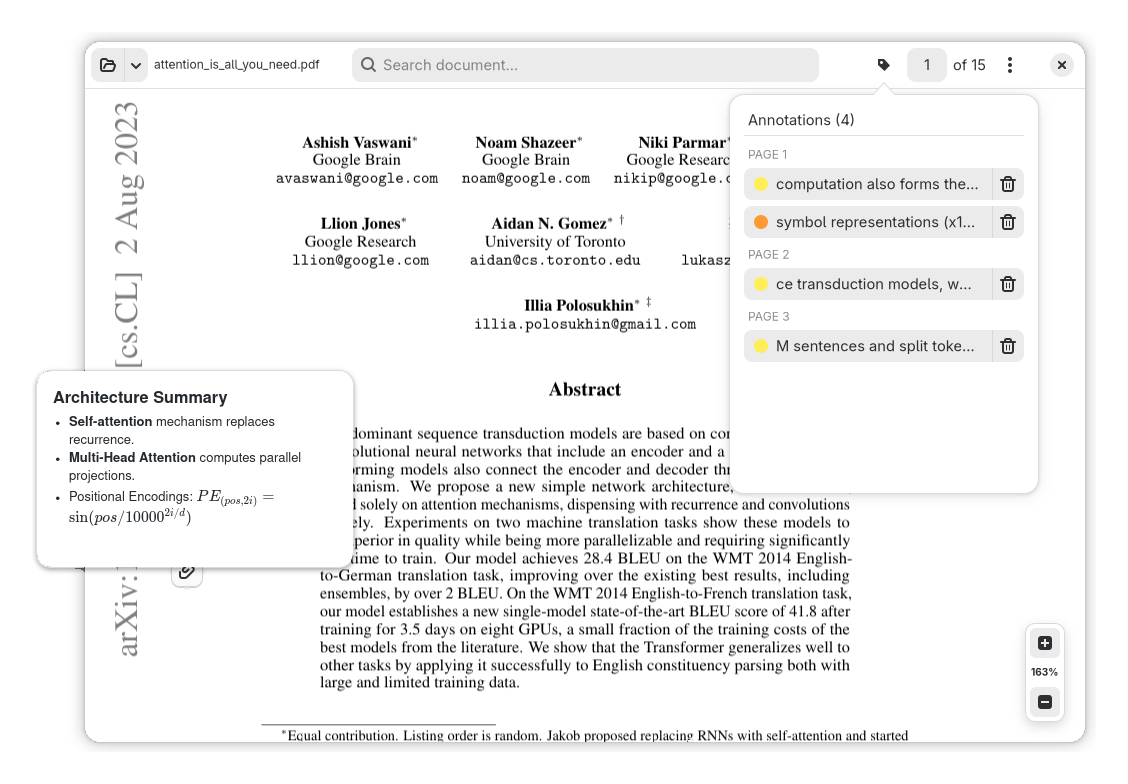
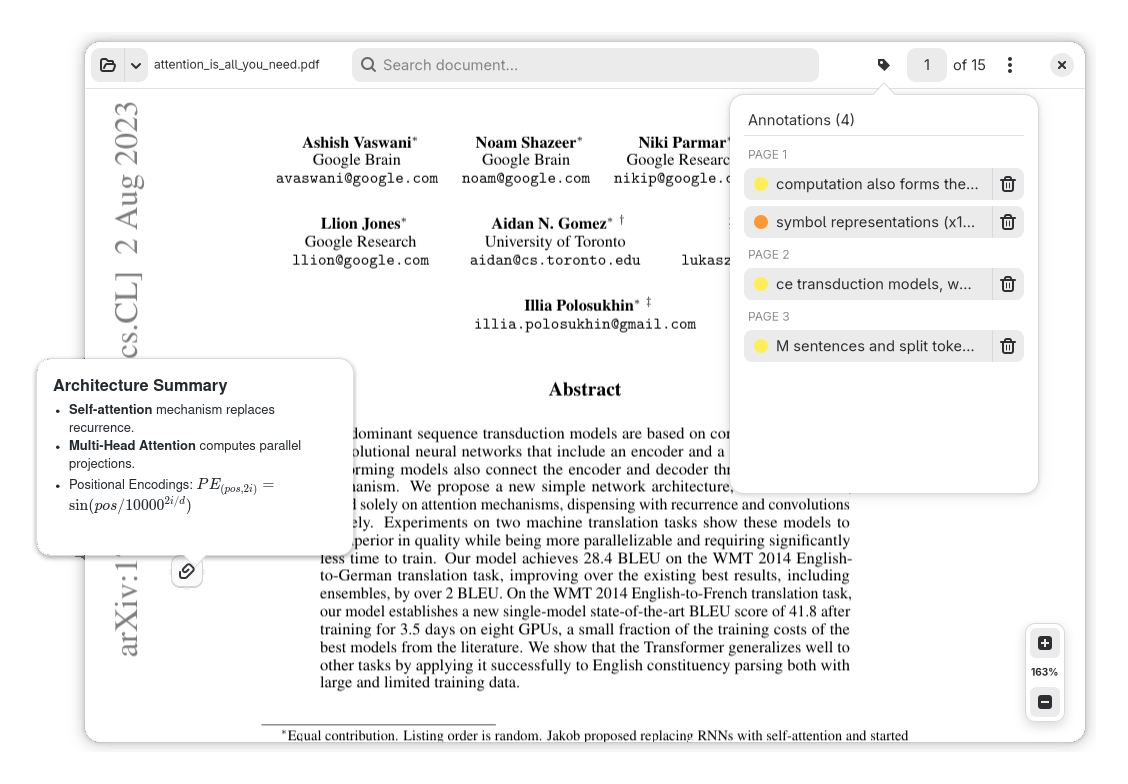
feat(notes): debug-note-rect overlay, fix popover arrow anchor
- Add --debug-note-rect CLI flag: draws a red 2px border on the GL canvas
  at the note preview anchor rect (content coordinates), stored on the
  canvas whenever the preview popover is shown
- Fix _preview_anchor_rect so the rect is centered on the note point like
  the icon (pdf_point_to_page_margin), instead of using the point as the
  top-left; sized 34x34 with a -13 top-left offset
- Enable the preview popover arrow (set_has_arrow(True)) so it points at
  the icon
- Only override the window cursor when PDFATLAS_HIDE_CURSOR == "1"; leave
  cursor handling to the canvas hover logic otherwise
- Regenerate attention_notes_annotations.png

Changed region(s): [[0.031, 0.4592, 0.2793, 0.6735], [0.031, 0.7041, 0.3103, 0.7347]]

diff --git a/pdfatlas/ui/notes.py b/pdfatlas/ui/notes.py
@@ -494,7 +494,7 @@ class NotesLayer:
             # and widget anchoring must be expressed as a pointing rect in the
             # popover parent's (canvas) coordinates.
             self._preview_popover.set_autohide(False)  # type: ignore[attr-defined]
-            self._preview_popover.set_has_arrow(False)
+            self._preview_popover.set_has_arrow(True)
             self._preview_popover.add_css_class("note-preview-popover")
             self._preview_popover.set_parent(self.win.canvas)
             w = max(220, min(self.win.canvas.get_width() // 3, 300))
@@ -519,6 +519,19 @@ class NotesLayer:
             return GLib.SOURCE_REMOVE
         self._preview_popover.set_pointing_to(rect)
         self._preview_popover.popup()
+        if getattr(self.win, "debug_note_rect", False):
+            # _preview_anchor_rect is viewport-relative (scroll already subtracted);
+            # the GL overlay draws in content coordinates, so add scroll back.
+            canvas = self.win.canvas
+            sx = canvas.hadjustment.get_value() if canvas.hadjustment else 0.0
+            sy = canvas.vadjustment.get_value() if canvas.vadjustment else 0.0
+            canvas.debug_note_rect = (
+                rect.x + sx,
+                rect.y + sy,
+                float(rect.width),
+                float(rect.height),
+            )
+            canvas.queue_draw_overlays("debug-note-rect")
         return GLib.SOURCE_REMOVE
 
     def _preview_anchor_rect(self, note: dict) -> Gdk.Rectangle | None:
@@ -540,11 +553,13 @@ class NotesLayer:
         page_x0 = (box_w - dw) / 2.0
         crop_off_x = crop_rect.x0 if crop_rect is not None else 0.0
         crop_off_y = crop_rect.y0 if crop_rect is not None else 0.0
+        # Icon centered on the note point; top-left uses a -13 offset with a
+        # 34x34 size.
         rect = Gdk.Rectangle()
-        rect.x = round(page_x0 + scale * (note["x"] - crop_off_x) - scroll_x)
-        rect.y = round(_y_offset + scale * (note["y"] - crop_off_y) - scroll_y)
-        rect.width = 24
-        rect.height = 24
+        rect.x = round(page_x0 + scale * (note["x"] - crop_off_x) - scroll_x - 13.0)
+        rect.y = round(_y_offset + scale * (note["y"] - crop_off_y) - scroll_y - 13.0)
+        rect.width = 34
+        rect.height = 34
         return rect
 
     def _on_preview_hide(self):

diff --git a/pdfatlas/ui/window.py b/pdfatlas/ui/window.py
@@ -83,11 +83,12 @@ class MainWindow(Adw.ApplicationWindow):
       - Click-to-navigate search portal coordinates mapping.
     """
 
-    def __init__(self, app, state=None, follow_link=None, debug_mode=False, render_mode="mp", render_workers=2):
+    def __init__(self, app, state=None, follow_link=None, debug_mode=False, debug_note_rect=False, render_mode="mp", render_workers=2):
         super().__init__(application=app)
         self.app = app
         self.set_title("PDF Viewer")
         self.debug_mode = debug_mode
+        self.debug_note_rect = debug_note_rect
         self.set_default_size(1000, 700)
         self.initial_state = state
         self.follow_link = follow_link
@@ -352,19 +353,15 @@ class MainWindow(Adw.ApplicationWindow):
         self._setup_canvas_gestures()
 
     def _on_window_realized(self, widget):
-        hide_env = os.environ.get("PDFATLAS_HIDE_CURSOR", "1")
-        if hide_env == "1":
+        # Screenshot/debug-only: hide the cursor on a headless capture. When
+        # PDFATLAS_HIDE_CURSOR is not "1" (normal use), leave cursor handling
+        # entirely to the canvas hover logic -- do not force any cursor here.
+        if os.environ.get("PDFATLAS_HIDE_CURSOR") == "1":
             blank_cursor = Gdk.Cursor.new_from_name("none", None)
             self.set_cursor(blank_cursor)
             surface = self.get_surface()
             if surface:
                 surface.set_cursor(blank_cursor)
-        elif hide_env == "0":
-            default_cursor = Gdk.Cursor.new_from_name("default", None)
-            self.set_cursor(default_cursor)
-            surface = self.get_surface()
-            if surface:
-                surface.set_cursor(default_cursor)
 
     def _on_canvas_note_create(self, page: int, x: float, y: float):
         self.notes_layer.create_note(page, x, y)

diff --git a/pdfatlas/main.py b/pdfatlas/main.py
@@ -64,6 +64,7 @@ class PDFViewerApplication(Adw.Application):
         self.state: str | None = None
         self.follow_link: int | None = None
         self.debug: bool = False
+        self.debug_note_rect: bool = False
         self.render_mode: str = "mp"
         self.render_workers: int = 2
 
@@ -76,12 +77,14 @@ class PDFViewerApplication(Adw.Application):
         state = getattr(self, "state", None)
         follow_link = getattr(self, "follow_link", None)
         debug_mode = getattr(self, "debug", False)
+        debug_note_rect = getattr(self, "debug_note_rect", False)
 
         win = MainWindow(
             self,
             state=state,
             follow_link=follow_link,
             debug_mode=debug_mode,
+            debug_note_rect=debug_note_rect,
             render_mode=self.render_mode,
             render_workers=self.render_workers,
         )
@@ -136,6 +139,8 @@ def main():
     parser.add_argument("--state", default=None, help="Initial application state as a JSON string")
     parser.add_argument("--follow-link", type=int, default=None, help="Index of N-th link in document to follow on open")
     parser.add_argument("--debug", action="store_true", help="Enable debug overlay for page layout values")
+    parser.add_argument("--debug-note-rect", action="store_true",
+                        help="Draw a red overlay at the note preview anchor rect")
     parser.add_argument(
         "--render-mode",
         choices=["mt", "mp"],
@@ -164,6 +169,7 @@ def main():
     app.state = args.state
     app.follow_link = args.follow_link
     app.debug = args.debug
+    app.debug_note_rect = args.debug_note_rect
     app.render_mode = args.render_mode
     app.render_workers = args.render_workers
 

diff --git a/pdfatlas/ui/gl_canvas.py b/pdfatlas/ui/gl_canvas.py
@@ -451,6 +451,16 @@ class GLCanvas(Gtk.GLArea):
                 self._hl_layer.composite_page_to_screen(
                     r, tex_id, (box_w - dw) / 2.0, y_off, dw, dh, viewport_w, viewport_h, gl_scale)
 
+        debug_note_rect = getattr(canvas, "debug_note_rect", None)
+        if debug_note_rect is not None:
+            nx, ny, nw, nh = debug_note_rect
+            red = (1.0, 0.0, 0.0, 0.95)
+            bt = 1.5
+            r.fill_rect(nx, ny, nw, bt, red)
+            r.fill_rect(nx, ny + nh - bt, nw, bt, red)
+            r.fill_rect(nx, ny, bt, nh, red)
+            r.fill_rect(nx + nw - bt, ny, bt, nh, red)
+
         r.end()
         gl.glUseProgram(0)
         gl.glDisable(gl.GL_BLEND)

diff --git a/pdfatlas/ui/canvas.py b/pdfatlas/ui/canvas.py
@@ -98,6 +98,7 @@ class PDFCanvas(Gtk.Overlay):
         self.render_worker = None
         self.crop_analyzer = None
         self.debug_mode: bool = False
+        self.debug_note_rect: tuple[float, float, float, float] | None = None
         self.settings = None
 
         self.zoom = 1.0
